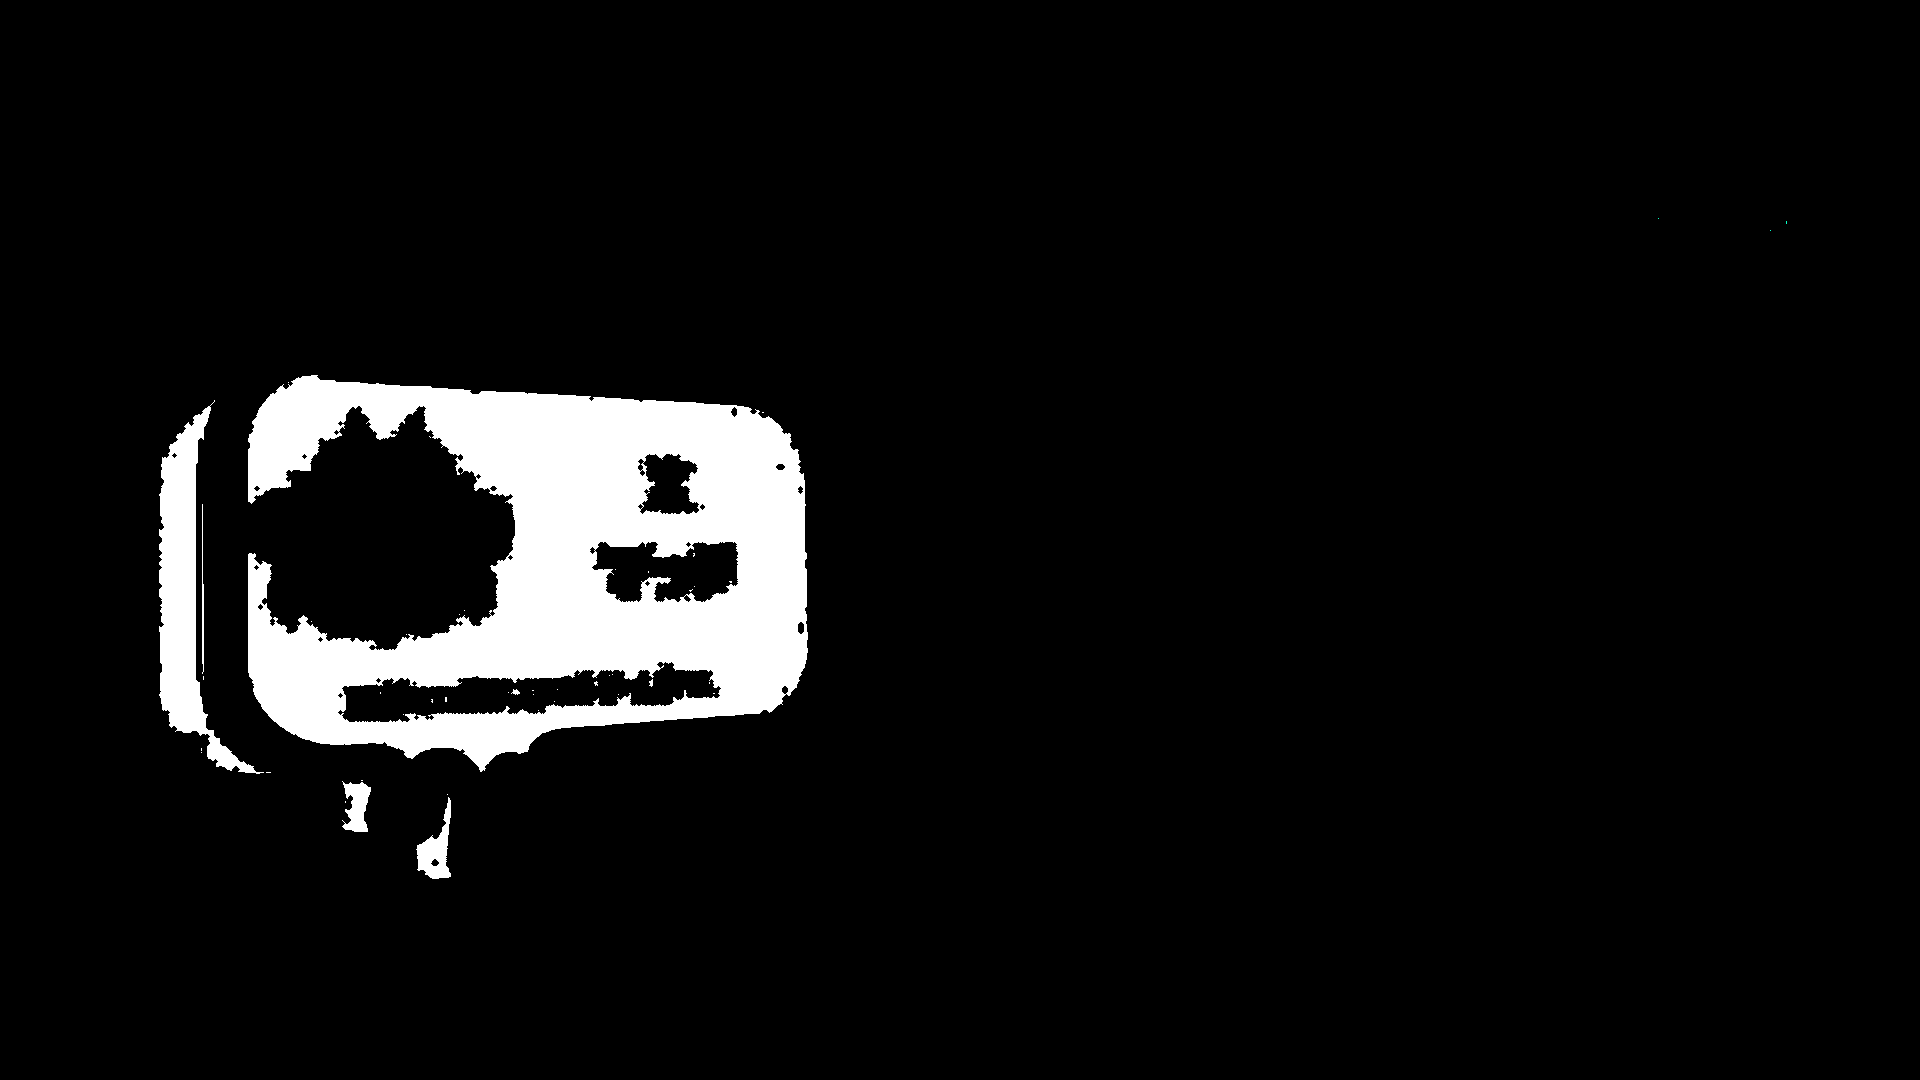
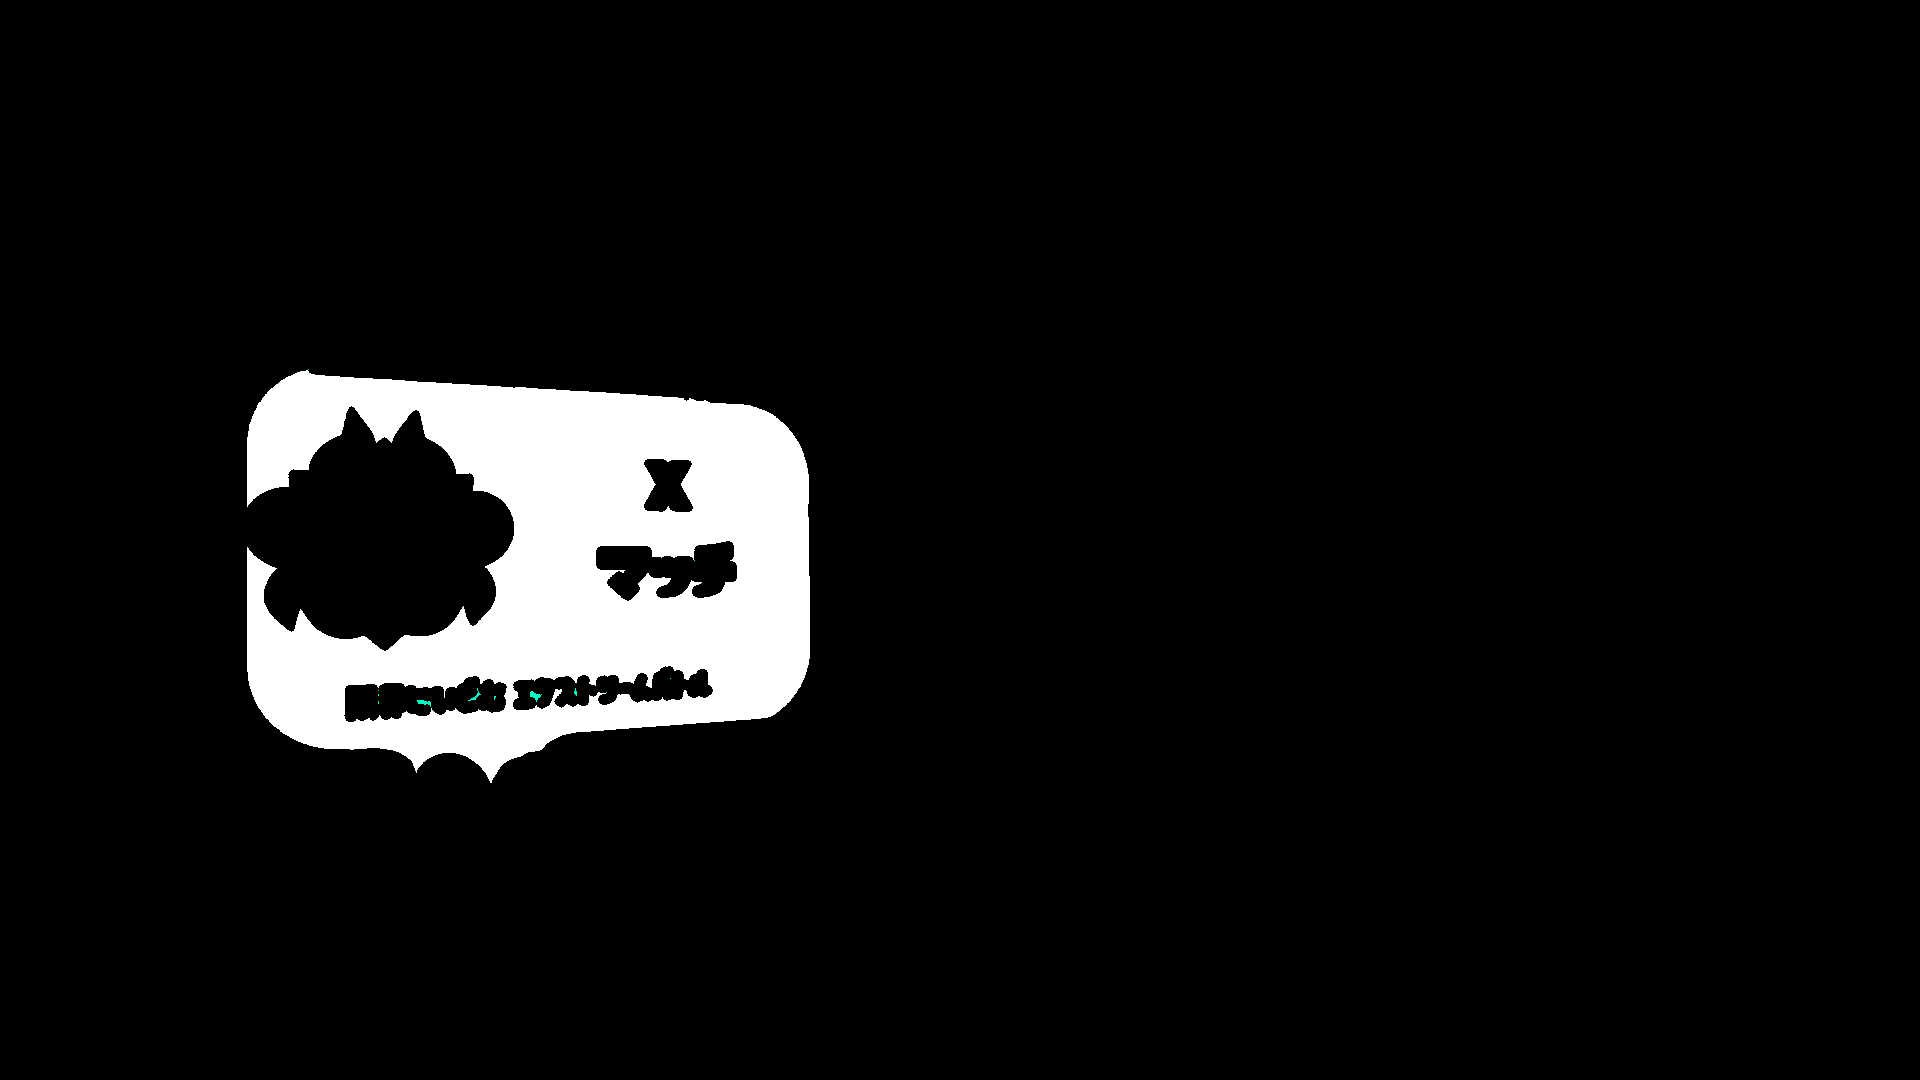
バンカラマッチのウデマエ取得に対応

diff --git a/uploader.py b/uploader.py
@@ -16,6 +16,7 @@ from wrapper.youtube import Youtube
 from wrapper.ffmpeg import FFmpeg
 from upload_file import UploadFile
 import utility.os as os_utility
+from rate import RateBase, XP, Udemae
 
 logger = logging.getLogger(__name__)
 
@@ -43,10 +44,10 @@ class Uploader:
     ]
 
     @staticmethod
-    def queue(path: str, start_datetime: datetime.datetime, match: str, rule: str, stage: str, result: str, xpower: Optional[float], result_image: Optional[np.ndarray], srt_str: Optional[str]):
+    def queue(path: str, start_datetime: datetime.datetime, match: str, rule: str, stage: str, result: str, rank: Optional[RateBase], result_image: Optional[np.ndarray], srt_str: Optional[str]):
         # 動画を規定の場所に移動(キューに追加)
         new_file_base_name = UploadFile.make_file_base_name(
-            start_datetime, match, rule, stage, result, xpower)
+            start_datetime, match, rule, stage, result, rank)
         _, extension = os.path.splitext(os.path.basename(path))
         new_path = os.path.join(Uploader.RECORDED_DIR,
                                 new_file_base_name + extension)
@@ -77,16 +78,12 @@ class Uploader:
         minutes, seconds = divmod(remainder, 60)
         return f"{hours:02}:{minutes:02}:{seconds:02}"
 
-    @staticmethod
-    def xp_prefix(xpower: float) -> str:
-        return str(int(xpower) // 100)
-
     def _generate_title_and_description(self, files: List[UploadFile], day: datetime.date, time: datetime.time, battle: str, rule: str) -> Tuple[str, str]:
         description = ""
         elapsed_time = 0
         win_count = 0
         lose_count = 0
-        last_xpower = 0.0
+        last_rate: Optional[RateBase] = None
 
         for file in files:
             # タイトルに付けるため、勝敗数をカウント
@@ -94,30 +91,32 @@ class Uploader:
             lose_count += (file.result == "LOSE")
 
             # Xパワーの変動があったタイミングだけ説明にXパワーを記載
-            if file.xpower and last_xpower != file.xpower:
-                description += f"XP: {file.xpower}\n"
-                last_xpower = file.xpower
+            if file.rate and last_rate != file.rate:
+                rate_prefix = f"{file.rate.label}: " if battle == "Xマッチ" else ""
+                description += f"{rate_prefix}{file.rate}\n"
+                last_rate = file.rate
 
             elapsed_time_str = Uploader.format_seconds(elapsed_time)
             line = f"{elapsed_time_str} {file.result.ljust(4)} {file.stage} \n"
             description += line
             elapsed_time += file.length
 
-        xpowers = [file.xpower for file in files if file.xpower]
-        if len(xpowers) == 0:
-            xpower = ""
+        rates = [file.rate for file in files if file.rate]
+        if len(rates) == 0:
+            rate = ""
         else:
-            max_xpower_prefix = Uploader.xp_prefix(max(xpowers))
-            min_xpower_prefix = Uploader.xp_prefix(min(xpowers))
-            if min_xpower_prefix == max_xpower_prefix:
-                xpower = f"(XP{min_xpower_prefix})"
+            max_rate = max(rates).short_str()
+            min_rate = min(rates).short_str()
+            rate_prefix = rates[0].label if battle == "Xマッチ" else ""
+            if min_rate == max_rate:
+                rate = f"({rate_prefix}{min_rate})"
             else:
-                xpower = f"(XP{min_xpower_prefix}-{max_xpower_prefix})"
+                rate = f"({rate_prefix}{min_rate}-{max_rate})"
 
         day_str = day.strftime("'%y.%m.%d")
         time_str = time.strftime("%H").lstrip("0")
 
-        title = f"{battle}{xpower} {rule} {win_count}勝{lose_count}敗 {day_str} {time_str}時～"
+        title = f"{battle}{rate} {rule} {win_count}勝{lose_count}敗 {day_str} {time_str}時～"
         return title, description
 
     def _split_by_time_ranges(self, files: List[UploadFile]) -> Dict[Tuple[datetime.date, datetime.time, str, str], List[UploadFile]]:
@@ -210,12 +209,17 @@ class Uploader:
 
         battle = files[0].battle
         rule = files[0].rule
-        xpowers = [file.xpower for file in files if file.xpower]
-        min_xpower = min(xpowers) if len(xpowers) > 0 else None
-        max_xpower = max(xpowers) if len(xpowers) > 0 else None
-        rate = None if min_xpower is None else \
-            f"XP: {min_xpower}" if min_xpower == max_xpower else \
-            f"XP: {min_xpower} ~ {max_xpower}"
+        rates = [file.rate for file in files if file.rate]
+        if len(rates) == 0:
+            rate = None
+        else:
+            min_rate = min(rates)
+            max_rate = max(rates)
+            rate_prefix = f"{min_rate.label}: " if battle == "Xマッチ" else ""
+            if min_rate == max_rate:
+                rate = f"{rate_prefix}{min_rate}"
+            else:
+                rate = f"{rate_prefix}{min_rate} ~ {max_rate}"
         stages = [file.stage for file in files]
         stages = list(dict.fromkeys(stages))
         stage1 = stages[0] if len(stages) > 0 else None
@@ -258,7 +262,8 @@ class Uploader:
 
         # レートの文字を追加
         if rate:
-            text_color = (1, 249, 196) if battle == "Xマッチ" else "white"
+            text_color = (1, 249, 196) if battle == "Xマッチ" else \
+                (250, 97, 0) if battle.startswith("バンカラマッチ") else "white"
             path = os.path.join(self.THUMBNAIL_ASSETS_DIR,
                                 "Paintball_Beta.otf")
             font = ImageFont.truetype(path, 70)

diff --git a/rate.py b/rate.py
@@ -1,0 +1,131 @@
+from abc import ABC, abstractmethod
+import re
+from typing import Literal, Union
+
+
+class RateBase(ABC):
+    def __init__(self):
+        pass
+
+    @property
+    @abstractmethod
+    def label(self) -> str:
+        pass
+
+    @abstractmethod
+    def compare_rate(self, other: "RateBase") -> int:
+        """
+        self と other を比較し、selfが小さい場合は -1、
+        同じ場合は 0、大きい場合は 1 を返す。
+        """
+        pass
+
+    def __eq__(self, other: object) -> bool:
+        if not isinstance(other, RateBase):
+            return NotImplemented
+        return self.compare_rate(other) == 0
+
+    def __lt__(self, other: "RateBase") -> bool:
+        if not isinstance(other, RateBase):
+            return NotImplemented
+        return self.compare_rate(other) == -1
+
+    @abstractmethod
+    def __str__(self) -> str:
+        pass
+
+    @abstractmethod
+    def short_str(self) -> str:
+        pass
+
+    @classmethod
+    def create(cls, value: Union[float, int, str]) -> "RateBase":
+        """
+        引数の型に応じてXPまたはUdemaeのインスタンスを生成します。
+
+        数値（int, float）の場合はXP、文字列の場合はUdemaeを生成します。
+        """
+        if isinstance(value, (int, float)):
+            return XP(float(value))
+        elif isinstance(value, str):
+            try:
+                # 数値として解釈できる文字列の場合はXPとして生成
+                xp = float(value)
+                return XP(xp)
+            except:
+                return Udemae(value)
+        else:
+            raise ValueError("XPまたはUdemaeのインスタンスを生成できませんでした。")
+
+
+class XP(RateBase):
+    def __init__(self, xp: float):
+        self.xp = xp
+
+    @property
+    def label(self) -> str:
+        return "XP"
+
+    @property
+    def value(self) -> float:
+        return self.xp
+
+    def compare_rate(self, other: "RateBase") -> int:
+        if not isinstance(other, XP):
+            raise TypeError("XP 型同士でのみ比較可能です")
+        if self.xp < other.xp:
+            return -1
+        elif self.xp > other.xp:
+            return 1
+        else:
+            return 0
+
+    def __str__(self) -> str:
+        return str(self.xp)
+
+    def short_str(self) -> str:
+        return str(int(self.xp) // 100)
+
+
+class Udemae(RateBase):
+    Rank = Literal["C-", "C", "C+", "B-",
+                   "B", "B+", "A-", "A", "A+", "S", "S+"]
+    RANK_ORDER = {
+        "C-": 0, "C": 1, "C+": 2,
+        "B-": 3, "B": 4, "B+": 5,
+        "A-": 6, "A": 7, "A+": 8,
+        "S": 9, "S+": 10
+    }
+
+    def __init__(self, udemae: Union[Rank, str]):
+        if udemae not in self.RANK_ORDER:
+            raise ValueError("無効な評価ランクが指定されています")
+        self.udemae = udemae
+
+    @property
+    def label(self) -> str:
+        return "ウデマエ"
+
+    @property
+    def value(self) -> str:
+        return self.udemae
+
+    def compare_rate(self, other: "RateBase") -> int:
+        if not isinstance(other, Udemae):
+            raise TypeError("Udemae 型同士でのみ比較可能です")
+        self_rank = self.RANK_ORDER.get(self.udemae)
+        other_rank = self.RANK_ORDER.get(other.udemae)
+        if self_rank is None or other_rank is None:
+            raise ValueError("無効な評価ランクが指定されています")
+        if self_rank < other_rank:
+            return -1
+        elif self_rank > other_rank:
+            return 1
+        else:
+            return 0
+
+    def __str__(self) -> str:
+        return self.udemae
+
+    def short_str(self) -> str:
+        return self.udemae

diff --git a/recorder.py b/recorder.py
@@ -14,6 +14,7 @@ from analyzer import Analyzer
 from transcriber import Transcriber
 from utility.graceful_thread import GracefulThread
 import utility.os as os_utility
+from rate import RateBase, XP, Udemae
 
 logger = logging.getLogger(__name__)
 
@@ -36,7 +37,7 @@ class Recorder(GracefulThread):
 
         self._matching_start_time: Optional[datetime.datetime] = None
         self._battle_result: Optional[str] = None
-        self._x_power: Dict[str, float] = {}
+        self._rank: Dict[str, RateBase] = {}
         self._record_start_time = time.time()
         self._last_power_check_time = time.time()
         self._screen_off_count = 0
@@ -161,9 +162,14 @@ class Recorder(GracefulThread):
             # XPが表示されたら記録しとく (XPはマッチング開始前に表示される)
             if result := self._analyzer.x_power(frame):
                 rule, xp = result
-                if self._x_power.get(rule, 0.0) != xp:
+                if self._rank.get(rule, XP(0.0)) != xp:
                     logger.info(f"{rule}のXパワー: {xp}")
-                    self._x_power[rule] = xp
+                    self._rank[rule] = xp
+
+            if udemae := self._analyzer.udemae(frame):
+                if self._rank.get("ウデマエ", XP(0.0)) != udemae:
+                    logger.info(f"ウデマエ: {udemae}")
+                    self._rank["ウデマエ"] = udemae
 
             # 動画のスケジュール分けを正確にできるよう、マッチング開始時の日時を記録しておく
             if self._analyzer.matching_start(frame):
@@ -282,14 +288,17 @@ class Recorder(GracefulThread):
         stage = self._analyzer.stage_name(frame) or ""
         logger.info(f"ステージ: {stage}")
 
+        rank_key = rule if match == "Xマッチ" else "ウデマエ"
+        rank = self._rank.get(rank_key, None)
+
         # アップロードキューに追加
         start_datetime = self._matching_start_time or \
             Obs.extract_start_datetime(path) or \
             datetime.datetime.now()
         result = self._battle_result or ""
-        Uploader.queue(path, start_datetime, match, rule, stage,
-                       result, self._x_power.get(rule, None), frame, srt)
+        Uploader.queue(path, start_datetime, match, rule,
+                       stage, result, rank, frame, srt)
         logger.info("アップロードキューに追加しました")
 
         self._matching_start_time = None
-        self._x_power = {}  # バトル後はXPが更新されている可能性があるので、いったんリセットする
+        self._rank = {}  # バトル後はXPが更新されている可能性があるので、いったんリセットする

diff --git a/upload_file.py b/upload_file.py
@@ -8,6 +8,7 @@ import numpy as np
 import srt
 
 from wrapper.ffmpeg import FFmpeg
+from rate import RateBase, XP, Udemae
 
 
 @dataclass
@@ -22,7 +23,7 @@ class UploadFile:
     rule: str
     stage: str
     result: str
-    xpower: Optional[float]
+    rate: Optional[RateBase]
     length: float
 
     def __init__(self, path):
@@ -34,7 +35,8 @@ class UploadFile:
         self.start = datetime.datetime.strptime(
             metadata[0], self.DATETIME_FORMAT)
         self.battle, self.rule, self.stage, self.result = metadata[1:5]
-        self.xpower = float(metadata[5]) if len(metadata) == 6 else None
+        self.rate = RateBase.create(
+            metadata[5]) if len(metadata) == 6 else None
 
         self.length = self._get_video_length()
 
@@ -65,13 +67,13 @@ class UploadFile:
         return metadata
 
     @staticmethod
-    def make_file_base_name(start: datetime.datetime, match: str, rule: str, stage: str, result: str, xpower: Optional[float] = None) -> str:
+    def make_file_base_name(start: datetime.datetime, match: str, rule: str, stage: str, result: str, rate: Optional[RateBase] = None) -> str:
         # スケジュール毎に結合できるよう、録画開始日時(バトル開始日時)、マッチ、ルールをファイル名に含める
         # 動画説明に各試合の結果を記載するため、結果もファイル名に含める
         start_str = start.strftime(UploadFile.DATETIME_FORMAT)
         file_base_name = f"{start_str}_{match}_{rule}_{stage}_{result}"
-        if xpower:
-            file_base_name += f"_{xpower}"
+        if rate:
+            file_base_name += f"_{rate}"
         return file_base_name
 
     def set_thumbnail(self, thumbnail: np.ndarray) -> None:

diff --git a/analyzer.py b/analyzer.py
@@ -9,6 +9,7 @@ import numpy as np
 
 from image_matcher import TemplateMatcher, HSVMatcher, HashMatcher, RGBMatcher
 from wrapper.ocr import OCR
+from rate import XP, Udemae
 
 logger = logging.getLogger(__name__)
 
@@ -105,6 +106,11 @@ class Analyzer:
         }
         self._select_xmatch_matcher = HSVMatcher(
             (80, 255, 250), (90, 255, 255), get_full_path("select_xmatch_mask.png"))
+        self._select_bankara_match_matcher = HSVMatcher(
+            (13, 255, 250), (15, 255, 255), get_full_path("select_bankara_match_mask.png"))
+        self._udemae_matchers = create_template_matchers({
+            "S+": "s_plus.png",
+        })
         self._finish_text_matcher = HSVMatcher(
             (0, 0, 0), (179, 255, 50), get_full_path("finish_text_mask.png"))
         self._finish_band_matcher = HSVMatcher(
@@ -175,7 +181,16 @@ class Analyzer:
         M = cv2.getRotationMatrix2D((cols/2, rows/2), angle, 1)
         return cv2.warpAffine(image, M, (cols, rows))
 
-    def x_power(self, image: np.ndarray) -> Optional[Tuple[str, float]]:
+    def udemae(self, image: np.ndarray) -> Optional[Udemae]:
+        if not self._select_bankara_match_matcher.match(image):
+            return None
+
+        if (udemae := self._find(image, self._udemae_matchers)) is None:
+            return None
+
+        return Udemae(udemae)
+
+    def x_power(self, image: np.ndarray) -> Optional[Tuple[str, XP]]:
         if not self._select_xmatch_matcher.match(image):
             return None
 
@@ -204,6 +219,6 @@ class Analyzer:
                 logger.warning(f"Xパワーが異常です: {xp}")
                 return None
 
-            return match_name, xp
+            return match_name, XP(xp)
 
         return None
